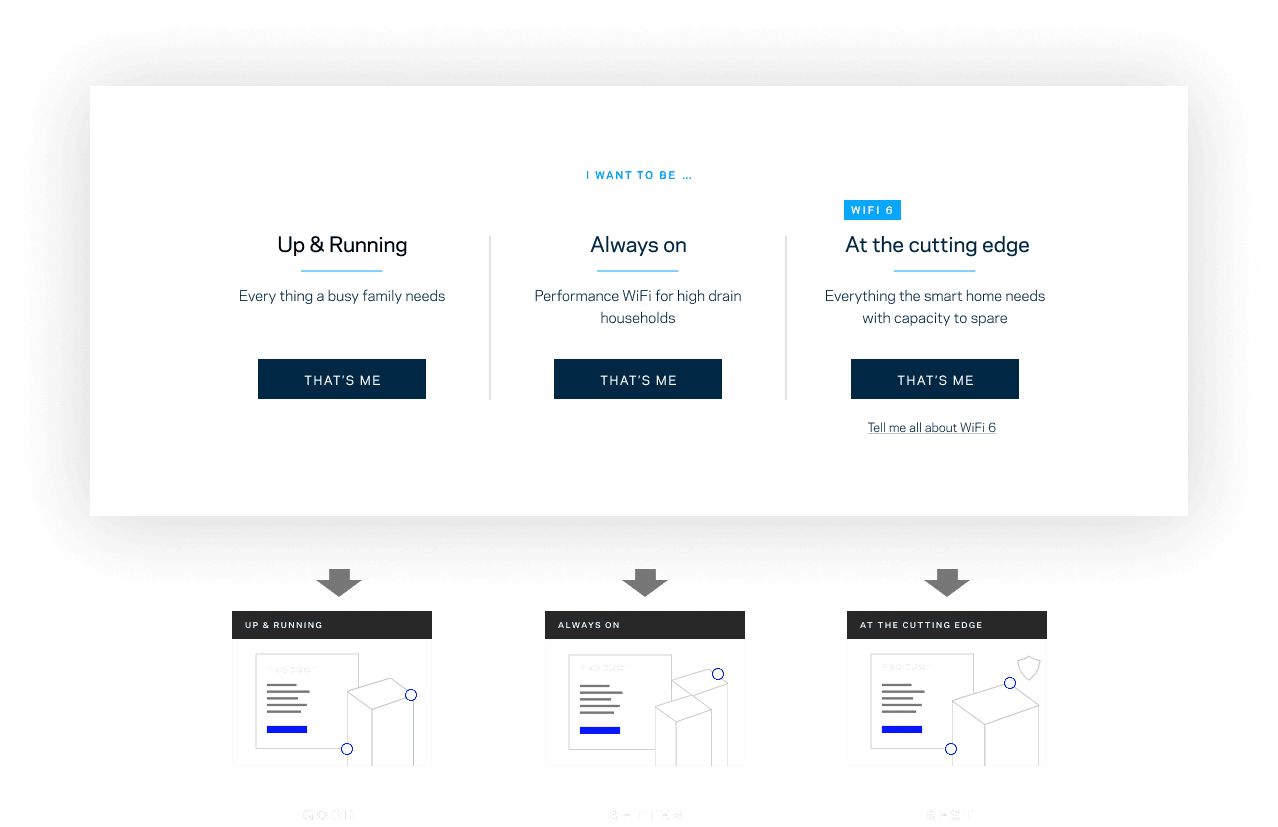
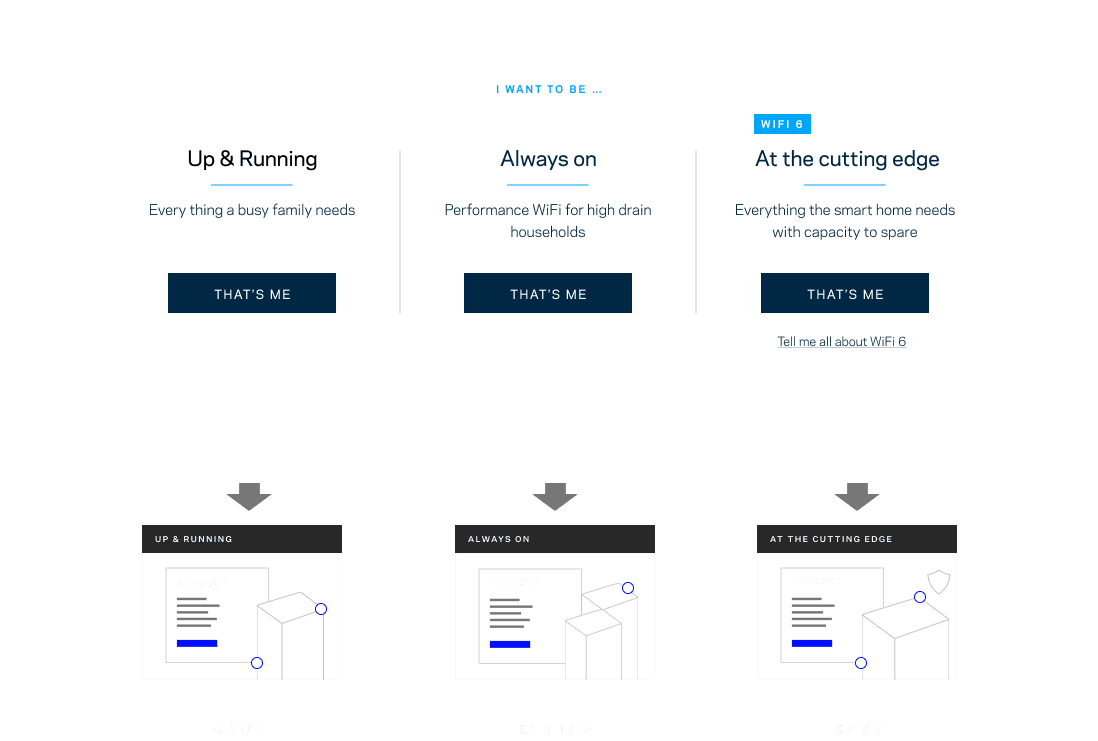
second section mostly working

diff --git a/lucid-motors/index.html b/lucid-motors/index.html
@@ -168,7 +168,7 @@
                   srcset="../resources/images/luc-3d_s@2x.png 2x,
                   ../resources/images/luc-3d_s.png 1x"/>
 
-                <img src="../resources/images/luc-3d_ml.png" alt="3D renders of park distance warning system"/>
+                <img src="../resources/images/luc-3d_ml.png" alt="3D renders of park distance warning system" loading="lazy"/>
              </picture>
 
              <div class="separated-spacer"></div>
@@ -203,7 +203,7 @@
                      srcset="../resources/images/luc-warning_s@2x.png 2x,
                      ../resources/images/luc-warning_s.png 1x"/>
 
-                  <img src="../resources/images/luc-warning_l.png" alt="Warning levels diagram"/>
+                  <img src="../resources/images/luc-warning_l.png" alt="Warning levels diagram" loading="lazy"/>
                </picture>
 
               <div class="separated-spacer"></div>
@@ -235,7 +235,7 @@
                     media="(max-width: 720px)"
                     srcset="../resources/images/luc-3d-2d_s.gif"/>
 
-                  <img src="../resources/images/luc-3d-2d_m.gif" alt="Technical diagram showing 3D to 2D transition"/>
+                  <img src="../resources/images/luc-3d-2d_m.gif" alt="Technical diagram showing 3D to 2D transition" loading="lazy"/>
                </picture>
 
                <div class="separated-spacer"></div>
@@ -265,7 +265,7 @@
                     media="(max-width: 720px)"
                     srcset="../resources/images/luc-motion_s.gif"/>
 
-                  <img src="../resources/images/luc-motion_m.gif" alt="wave animation sequence"/>
+                  <img src="../resources/images/luc-motion_m.gif" alt="wave animation sequence" loading="lazy"/>
                </picture>
 
                <!-- case-image: animated wave - stages -->
@@ -286,7 +286,7 @@
                      srcset="../resources/images/luc-motion-stages_s@2x.png 2x,
                      ../resources/images/luc-motion-stages_s.png 1x"/>
 
-                  <img src="../resources/images/luc-motion-stages_l.png" alt="Warning levels diagram"/>
+                  <img src="../resources/images/luc-motion-stages_l.png" alt="Warning levels diagram" loading="lazy"/>
                </picture>
 
                <div class="separated-spacer"></div>
@@ -304,7 +304,7 @@
                <div class="connected-spacer"></div>
 
                <div class="content-video">
-                <video muted autoplay loop class="video-fill">
+                <video muted autoplay loop class="video-fill" loading="lazy">
                    <source
                      src="../resources/video/luc-proto.mp4"
                      type="video/mp4"
@@ -339,7 +339,7 @@
                   srcset="../resources/images/luc-spec-lms@2x.jpg 2x,
                   ../resources/images/luc-spec-lms.jpg 1x"/>
 
-               <img src="../resources/images/luc-spec-lms.jpg" alt="Warning levels diagram"/>
+               <img src="../resources/images/luc-spec-lms.jpg" alt="Warning levels diagram" loading="lazy"/>
             </picture>
 
             <div class="separated-spacer"></div>
@@ -388,15 +388,15 @@
                  <!-- section icons -->
                  <div class="container-flex icon-housing">
                     <div class="wrapper">
-                       <img src="../resources/images/luc-icon-con.svg" alt="Concept icon"/>
+                       <img src="../resources/images/luc-icon-con.svg" alt="Concept icon" loading="lazy"/>
                        <p class="label">Concept</p>
                     </div>
                     <div class="wrapper">
-                       <img src="../resources/images/luc-icon-3d.svg" alt="3D UX icon"/>
+                       <img src="../resources/images/luc-icon-3d.svg" alt="3D UX icon" loading="lazy"/>
                        <p class="label">3d ux</p>
                     </div>
                     <div class="wrapper">
-                       <img src="../resources/images/luc-icon-mot.svg" alt="Prototyping & motion icon"/>
+                       <img src="../resources/images/luc-icon-mot.svg" alt="Prototyping & motion icon" loading="lazy"/>
                        <p class="label">Prototyping <br>&#38; motion</p>
                     </div>
                  </div>
@@ -431,7 +431,7 @@
                   srcset="../resources/images/luc-svm-hero_s@2x.jpg 2x,
                   ../resources/images/luc-svm-hero_s.jpg 1x"/>
 
-                <img src="../resources/images/luc-svm-hero_lm.jpg" alt="Illustration of the overlapping views of the vehicles cameras"/>
+                <img src="../resources/images/luc-svm-hero_lm.jpg" alt="Illustration of the overlapping views of the vehicles cameras" loading="lazy"/>
              </picture>
 
              <div class="separated-spacer"></div>
@@ -465,7 +465,7 @@
                    srcset="../resources/images/luc-dimension_s@2x.png 2x,
                    ../resources/images/luc-dimension_s.png 1x"/>
 
-                <img src="../resources/images/luc-dimension_l.png" alt="Diagram showing the UI in both overhead and perspective views"/>
+                <img src="../resources/images/luc-dimension_l.png" alt="Diagram showing the UI in both overhead and perspective views" loading="lazy"/>
              </picture>
 
              <div class="separated-spacer"></div>
@@ -501,7 +501,7 @@
                  srcset="../resources/images/luc-condition-1_s@2x.png 2x,
                  ../resources/images/luc-condition-1_s.png 1x"/>
 
-              <img src="../resources/images/luc-condition-1_l.png" alt="Conditional controls logic diagram"/>
+              <img src="../resources/images/luc-condition-1_l.png" alt="Conditional controls logic diagram" loading="lazy"/>
             </picture>
 
 
@@ -526,7 +526,7 @@
                 srcset="../resources/images/luc-condition-2_s@2x.png 2x,
                 ../resources/images/luc-condition-2_s.png 1x"/>
 
-             <img src="../resources/images/luc-condition-2_l.png" alt="Conditional controls UI screens"/>
+             <img src="../resources/images/luc-condition-2_l.png" alt="Conditional controls UI screens" loading="lazy"/>
            </picture>
 
            <div class="separated-spacer"></div>
@@ -572,7 +572,7 @@
              srcset="../resources/images/luc-camera_s@2x.png 2x,
              ../resources/images/luc-camera_s.png 1x"/>
 
-           <img src="../resources/images/luc-camera_l.png" alt="Conditional controls UI screens"/>
+           <img src="../resources/images/luc-camera_l.png" alt="Conditional controls UI screens" loading="lazy"/>
          </picture>
 
          <div class="separated-spacer"></div>

diff --git a/linksys-wifi/index.html b/linksys-wifi/index.html
@@ -136,13 +136,18 @@
                           media="(max-width: 720px)"
                           srcset="../resources/images/lin-concept-diagram_s.svg"/>
 
-                        <img src="../resources/images/lin-concept-diagram_lm.svg" alt="Illustration showing the placing of a good website inside an online retailer"/>
+                        <img src="../resources/images/lin-concept-diagram_lm.svg" alt="Illustration showing the placing of a good website inside an online retailer" loading="lazy"/>
 
                      </picture>
 
                </div>
 
         </div>
+
+
+        <div class="separated-spacer"></div>
+
+
 
         <!-- content-text -->
         <div class="content-text center">
@@ -156,7 +161,7 @@
      </div> <!-- container close -->
 
      </section>
-     <div class="separated-spacer"></div>
+     <div class="connected-spacer"></div>
      <!-- end of: part 1 -->
 
 
@@ -169,7 +174,7 @@
         <div class="container sect-2">
 
            <!-- case-image -->
-              <picture class="case-image">
+              <picture class="case-image shadow-transparent shadow">
 
                  <source
                    media="(min-width: 721px)"
@@ -181,7 +186,7 @@
                    srcset="../resources/images/lin-3-choices_s@2x.png 2x,
                    ../resources/images/lin-3-choices_s.png 1x"/>
 
-                 <img src="../resources/images/lin-3-choices_ml.png" alt="Three choices to cut through the confusion"/>
+                 <img src="../resources/images/lin-3-choices_ml.png" alt="Three choices to cut through the confusion" loading="lazy"/>
               </picture>
 
               <div class="separated-spacer"></div>
@@ -220,14 +225,21 @@
                       srcset="../resources/images/lin_components-top_sm@2x.png 2x,
                       ../resources/images/lin_components-top_sm.png 1x"/>
 
-                    <img src="../resources/images/lin_components-top_l.png" alt="Site map showing all components"/>
+                    <img src="../resources/images/lin_components-top_l.png" alt="Site map showing all components" loading="lazy"/>
                  </picture>
+
+
+
+                 <div class="connected-spacer"></div>
+
+
 
                  <!-- content-text -->
                  <div class="content-text center">
                     <!-- <p class="label centered">System</p> -->
                     <h4 class="h2 centered">From this</h4>
                  </div>
+
 
 
                  <!-- case-image -->
@@ -243,13 +255,41 @@
                         srcset="../resources/images/lin_components-bottom_sm@2x.png 2x,
                         ../resources/images/lin_components-bottom_sm.png 1x"/>
 
-                       <img src="../resources/images/lin_components-bottom_l.png" alt="Site map showing all components"/>
+                       <img src="../resources/images/lin_components-bottom_l.png" alt="Site map showing all components" loading="lazy"/>
                     </picture>
 
 
                     <div class="separated-spacer"></div>
 
 
+                    <!-- content-text -->
+                    <div class="content-text">
+                       <p class="label">Design</p>
+                       <h4 class="h4-sans">Elevating WiFi  to a lifestyle product</h4>
+                       <p class="body-loose">
+                       Taking inspiration from HiFi and interior design the design strategy was to build a gallery around the product. To move the technology from obscure to intuitive I used interactive elements and animations to explain key concepts and product differentiators.
+                       </p>
+                    </div>
+
+
+                   <div class="connected-spacer"></div>
+
+
+                    <!-- case-image -->
+                       <picture class="case-image shadow-transparent">
+
+                          <source
+                           media="(min-width: 721px)"
+                           srcset="../resources/images/lin-design-lang_ml@2x.png 2x,
+                           ../resources/images/lin-design-lang_ml.png 1x"/>
+
+                          <source
+                           media="(max-width: 720px)"
+                           srcset="../resources/images/lin-design-lang_s@2x.png 2x,
+                           ../resources/images/lin-design-lang_s.png 1x"/>
+
+                          <img src="../resources/images/lin-design-lang_ml.png" alt="Site map showing all components" loading="lazy"/>
+                       </picture>
 
 
 
@@ -261,21 +301,10 @@
 
 
 
-  <!-- SVM: full bleed section -->
- <section class="full-bleed luc dark-mode">
-
-        <div class="content-video car-interior-svm scale-up">
-         <video muted autoplay loop class="video-fill">
-            <source
-              src="../resources/video/luc-svm-hero.mp4"
-              type="video/mp4"
-            />
-         </video>
-        </div>
 
 <div class="separated-spacer"></div>
 
- </section>
+
  <!-- end of: SVM full bleed section -->
 
 

diff --git a/resources/css/components/sections/overrides-lin.css b/resources/css/components/sections/overrides-lin.css
@@ -5,19 +5,71 @@
 
 /* region small */
 
-/* sect-1:  PDW Introduction */
+/* sect-1:  Explaining the concept */
+#case-study-section.lin.second {
+   background-image: url('../../../../resources/images/lin-white-top-ux_s.svg');
+   background-position: top;
+   background-size: 100%;
+   background-repeat: no-repeat;
+}
+
+#case-study-section.lin.second {
+   background-image: url('../../../../resources/images/lin-white-bottom-ux_s.svg');
+   background-position: bottom;
+   background-size: 100%;
+   background-repeat: no-repeat;
+}
+
+#case-study-section.lin.second .h2 {
+margin-bottom: 24px;
+}
+
+#case-study-section.lin.first .container-flex {
+   /* border: 1px solid yellow; */
+   flex-direction: column;
+}
+
+#case-study-section.lin.first .container-flex .content-text {
+   /* color: yellow; */
+   margin-bottom: 40px;
+}
+
 
 
 /* region medium */
 
 /* sect-2  */
 @media (min-width: 720px) {
-   #case-study-section.luc.second {
-      background-image: url('../../../../resources/images/luc-white-top-pdw_ml.svg');
+   #case-study-section.lin.second {
+      background-image: url('../../../../resources/images/lin-white-top-ux_m.svg');
       background-position: top;
       background-size: 100%;
       background-repeat: no-repeat;
    }
+
+   #case-study-section.lin.second {
+      background-image: url('../../../../resources/images/lin-white-bottom-ux_m.svg');
+      background-position: bottom;
+      background-size: 100%;
+      background-repeat: no-repeat;
+   }
+
+   #case-study-section.lin.first .container-flex {
+      /* border: 1px solid yellow; */
+      flex-direction: row;
+   }
+
+   #case-study-section.lin.first .container-flex img {
+      /* border: 1px solid yellow; */
+      min-width: 250px;
+      margin-left: 60px;
+   }
+
+   #case-study-section.lin.first .container-flex .content-text {
+      /* color: yellow; */
+      margin-bottom: 0;
+   }
+
 
 }
 
@@ -26,6 +78,20 @@
 /* region large */
 
 @media (min-width: 1100px) {
+   #case-study-section.lin.first .container-flex img {
+      /* border: 1px solid yellow; */
+      min-width: 300px;
+      margin-left: 100px;
+   }
+
+   #case-study-section.lin.second {
+      background-image: url('../../../../resources/images/lin-white-bottom-ux_l.svg');
+      background-position: bottom;
+      background-size: 100%;
+      background-repeat: no-repeat;
+   }
+
+
 
 
 }

diff --git a/resources/css/variables.css b/resources/css/variables.css
@@ -165,6 +165,10 @@ section.dark-mode a {
   filter: drop-shadow(0px 20px 30px #EEE);
 }
 
+.shadow-transparent {
+   filter: drop-shadow(0px 4px 90px rgba(0, 0, 0, 0.18));
+}
+
 
    /* Keyboard navigation */
 a:focus {
